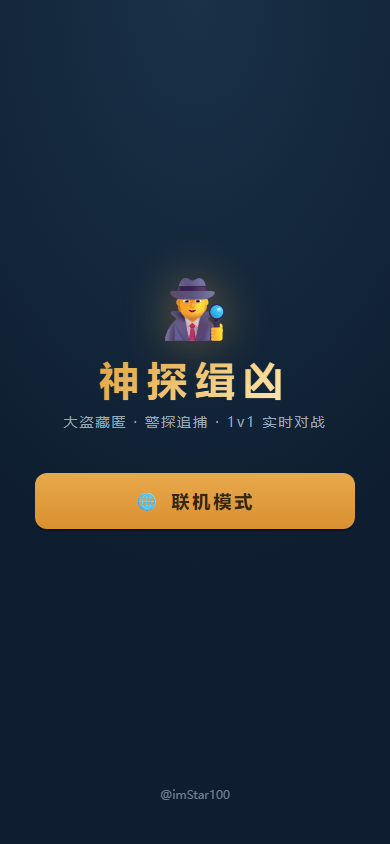
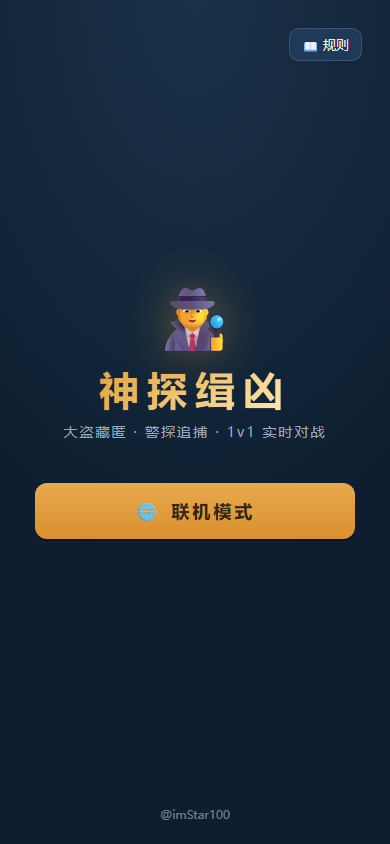
feat(神探缉凶联机模式样式+入口)

diff --git a/fugitive/style.css b/fugitive/style.css
@@ -23,7 +23,7 @@
   --radius:12px; --btn-h:56px;
 }
 * { margin:0; padding:0; box-sizing:border-box; -webkit-tap-highlight-color:transparent; }
-body { font-family:-apple-system,system-ui,"PingFang SC","Microsoft YaHei",sans-serif; background:radial-gradient(120% 90% at 50% 0%, var(--bg) 0%, var(--bg-2) 75%); background-attachment:fixed; color:var(--text); min-height:100dvh; padding-bottom:max(8px, env(safe-area-inset-bottom)); }
+body { font-family:-apple-system,system-ui,"PingFang SC","Microsoft YaHei",sans-serif; background:radial-gradient(120% 90% at 50% 0%, var(--bg) 0%, var(--bg-2) 75%); background-attachment:fixed; color:var(--text); min-height:100vh; min-height:100dvh; padding-bottom:8px; padding-bottom:max(8px, env(safe-area-inset-bottom)); }
 #app { max-width:520px; margin:0 auto; padding:12px 12px 0; }
 
 /* ===== 通用 ===== */
@@ -42,20 +42,23 @@ body { font-family:-apple-system,system-ui,"PingFang SC","Microsoft YaHei",sans-
 .badge { display:inline-block; padding:3px 10px; border-radius:999px; font-size:12px; font-weight:700; }
 
 /* ===== 登录页（居中布局，参考无赖勇者/月面探险） ===== */
-#landing { display:flex; flex-direction:column; align-items:center; justify-content:center; min-height:calc(100dvh - 30px); padding:40px 20px 30px; text-align:center; position:relative; }
+#landing { display:flex; flex-direction:column; align-items:center; justify-content:center; min-height:calc(100vh - 20px); min-height:calc(100dvh - 20px); padding:40px 20px 30px; text-align:center; position:relative; }
 #landing .hero-icon { font-size:52px; margin-bottom:10px; filter:drop-shadow(0 0 16px rgba(224,163,62,.35)); }
 #landing h1 { font-size:34px; letter-spacing:6px; margin-bottom:8px; color:var(--gold); text-shadow:0 2px 0 rgba(0,0,0,.5); }
 #landing .sub { color:var(--text-dim); font-size:14px; letter-spacing:3px; margin-bottom:18px; }
 #landing .badge { background:var(--surface); color:#ffe6b0; margin-bottom:32px; font-size:13px; padding:6px 16px; }
-.role-btn { display:flex; flex-direction:row; align-items:center; gap:14px; width:min(320px,86vw); height:auto; min-height:68px; padding:10px 18px; margin-bottom:12px; text-align:left; }
+.role-btn { display:flex; flex-direction:row; align-items:center; gap:14px; width:100%; max-width:320px; width:min(320px,86vw); height:auto; min-height:68px; padding:10px 18px; margin-bottom:12px; text-align:left; }
 .role-btn .em { font-size:28px; flex-shrink:0; }
 .role-btn .rt { display:flex; flex-direction:column; gap:2px; line-height:1.35; }
 .role-btn .rt b { font-size:16px; }
 .role-btn .de { font-size:12px; color:var(--text-dim); font-weight:400; }
 .btn-blue .de { color:#cfe6f5; }
-#landing .rules-corner { position:absolute; top:max(16px, env(safe-area-inset-top)); right:16px; }
-#landing .rules-corner button { background:var(--surface); border:1px solid rgba(255,255,255,.14); border-radius:10px; padding:7px 12px; font-size:13px; cursor:pointer; color:var(--text); }
-#landing .rules-corner button:active { background:#27405f; }
+#landing .rules-corner, .ol-landing .rules-corner { position:absolute; right:16px; }
+#landing .rules-corner { top:16px; top:max(16px, env(safe-area-inset-top)); }
+/* #online 不像 #app 有 12px 内边距，补足后按钮与人机首页同处视口 28px 角 */
+.ol-landing .rules-corner { right:28px; top:28px; top:calc(12px + max(16px, env(safe-area-inset-top))); }
+#landing .rules-corner button, .ol-landing .rules-corner button { background:var(--surface); border:1px solid rgba(255,255,255,.14); border-radius:10px; padding:7px 12px; font-size:13px; cursor:pointer; color:var(--text); }
+#landing .rules-corner button:active, .ol-landing .rules-corner button:active { background:#27405f; }
 .credit { position:absolute; bottom:14px; left:0; right:0; color:var(--text-dim); font-size:12px; opacity:.7; }
 
 /* ===== 顶栏（两行：标题行 / 角色+牌堆行） ===== */
@@ -138,7 +141,7 @@ body { font-family:-apple-system,system-ui,"PingFang SC","Microsoft YaHei",sans-
 .rh-empty { text-align:center; color:var(--text-dim); font-size:13px; padding:14px 0; }
 
 /* ===== 气泡对话 ===== */
-#bubble-layer { position:fixed; left:50%; transform:translateX(-50%); width:min(100%,520px); top:170px; z-index:90; display:flex; flex-direction:column; gap:8px; padding:0 16px; pointer-events:none; }
+#bubble-layer { position:fixed; left:50%; transform:translateX(-50%); width:100%; max-width:520px; width:min(100%,520px); top:170px; z-index:90; display:flex; flex-direction:column; gap:8px; padding:0 16px; pointer-events:none; }
 .bubble { max-width:78%; padding:10px 14px; border-radius:16px; font-size:15px; font-weight:600; line-height:1.4; box-shadow:0 4px 16px rgba(0,0,0,.5); animation:popIn .22s ease; }
 .bubble-mar { background:linear-gradient(180deg, #245a80, #1d4a6b); color:#cfe6f5; border:1px solid #2f6f9e; }
 .bubble-fug { background:linear-gradient(180deg, #8a5c1e, #6e4715); color:#ffe6b8; border:1px solid #a5762c; }
@@ -171,9 +174,9 @@ body { font-family:-apple-system,system-ui,"PingFang SC","Microsoft YaHei",sans-
 .g-cell.sel { background:var(--accent-hi); color:#33270f; transform:scale(1.08); }
 
 /* ===== 模态框 ===== */
-.modal-overlay { position:fixed; inset:0; background:rgba(8,14,24,.78); z-index:100; display:flex; align-items:flex-end; justify-content:center; opacity:0; pointer-events:none; transition:opacity .2s; }
+.modal-overlay { position:fixed; top:0; left:0; right:0; bottom:0; inset:0; background:rgba(8,14,24,.78); z-index:100; display:flex; align-items:flex-end; justify-content:center; opacity:0; pointer-events:none; transition:opacity .2s; }
 .modal-overlay.show { opacity:1; pointer-events:auto; }
-.modal { background:linear-gradient(180deg, var(--surface), var(--surface-2)); border-radius:20px 20px 0 0; width:100%; max-width:520px; max-height:80dvh; overflow-y:auto; padding:24px 20px; padding-bottom:max(24px, env(safe-area-inset-bottom)); transform:translateY(100%); transition:transform .25s ease-out; }
+.modal { background:linear-gradient(180deg, var(--surface), var(--surface-2)); border-radius:20px 20px 0 0; width:100%; max-width:520px; max-height:80vh; max-height:80dvh; overflow-y:auto; padding:24px 20px; padding-bottom:24px; padding-bottom:max(24px, env(safe-area-inset-bottom)); transform:translateY(100%); transition:transform .25s ease-out; }
 .modal-overlay.show .modal { transform:translateY(0); }
 .modal h3 { margin-bottom:12px; color:var(--gold); text-align:center; }
 .modal p, .modal li { font-size:13px; line-height:1.7; color:var(--text-dim); margin-bottom:6px; }
@@ -209,13 +212,13 @@ body { font-family:-apple-system,system-ui,"PingFang SC","Microsoft YaHei",sans-
 .flash-hit { animation:flash .6s ease; }
 
 /* ===== 搜捕开场「缉凶时刻」戏剧提示（打出 42 → 进入搜捕；全屏自动展示后自动移除） ===== */
-#manhunt-drama { position:fixed; inset:0; z-index:140; display:flex; align-items:center; justify-content:center; opacity:0; pointer-events:none; transition:opacity .26s ease; background:radial-gradient(92% 72% at 50% 38%, rgba(38,73,110,.38) 0%, rgba(5,10,18,.92) 80%); }
+#manhunt-drama { position:fixed; top:0; left:0; right:0; bottom:0; inset:0; z-index:140; display:flex; align-items:center; justify-content:center; opacity:0; pointer-events:none; transition:opacity .26s ease; background:radial-gradient(92% 72% at 50% 38%, rgba(38,73,110,.38) 0%, rgba(5,10,18,.92) 80%); }
 #manhunt-drama.on { opacity:1; pointer-events:auto; }
-#manhunt-drama .d-flash { position:absolute; inset:0; opacity:0; pointer-events:none; background:radial-gradient(62% 48% at 50% 44%, rgba(255,243,210,.95) 0%, rgba(226,85,90,.4) 55%, rgba(226,85,90,0) 100%); }
+#manhunt-drama .d-flash { position:absolute; top:0; left:0; right:0; bottom:0; inset:0; opacity:0; pointer-events:none; background:radial-gradient(62% 48% at 50% 44%, rgba(255,243,210,.95) 0%, rgba(226,85,90,.4) 55%, rgba(226,85,90,0) 100%); }
 #manhunt-drama.on .d-f1 { animation:strikeFlash .34s ease-out .05s both; }
 #manhunt-drama.on .d-f2 { animation:strikeFlash .3s ease-out .56s both; }
 @keyframes strikeFlash { 0%{opacity:0} 25%{opacity:.9} 100%{opacity:0} }
-#manhunt-drama .d-heart { position:absolute; inset:0; opacity:0; pointer-events:none; background:radial-gradient(120% 90% at 50% 50%, rgba(226,85,90,0) 55%, rgba(226,85,90,.42) 100%); }
+#manhunt-drama .d-heart { position:absolute; top:0; left:0; right:0; bottom:0; inset:0; opacity:0; pointer-events:none; background:radial-gradient(120% 90% at 50% 50%, rgba(226,85,90,0) 55%, rgba(226,85,90,.42) 100%); }
 #manhunt-drama.on .d-heart { animation:heartBeat 1.5s ease-in-out .35s infinite; }
 @keyframes heartBeat { 0%,100%{opacity:.18} 28%{opacity:.9} 46%{opacity:.25} 66%{opacity:.55} }
 #manhunt-drama .d-shake { display:flex; align-items:center; justify-content:center; width:100%; }
@@ -252,7 +255,7 @@ body { font-family:-apple-system,system-ui,"PingFang SC","Microsoft YaHei",sans-
 #manhunt-drama.calm .d-shake, #manhunt-drama.calm .d-pop, #manhunt-drama.calm .d-kicker, #manhunt-drama.calm .d-42wrap, #manhunt-drama.calm .d-stamp, #manhunt-drama.calm .d-sub, #manhunt-drama.calm .d-chip { animation:none !important; opacity:1 !important; transform:none !important; }
 
 /* ===== 警探摸牌展示：在所点牌堆按钮下方弹出摸到的牌（数字可见，驻留 0.5s + 0.2s 淡出移除，不拦截点击） ===== */
-#draw-pop { position:fixed; inset:0; z-index:130; opacity:0; pointer-events:none; transition:opacity .18s ease; }
+#draw-pop { position:fixed; top:0; left:0; right:0; bottom:0; inset:0; z-index:130; opacity:0; pointer-events:none; transition:opacity .18s ease; }
 #draw-pop.on { opacity:1; }
 #draw-pop .dp-anchor { position:absolute; transform:translateX(-50%); }
 #draw-pop .dp-inner { display:flex; flex-direction:column; align-items:center; gap:6px; }
@@ -268,7 +271,7 @@ body { font-family:-apple-system,system-ui,"PingFang SC","Microsoft YaHei",sans-
 #online .ol-logo { font-size:48px; margin:4px 0 10px; filter:drop-shadow(0 0 18px rgba(224,163,62,.4)); }
 #online .ol-title { font-size:26px; letter-spacing:5px; color:var(--gold); text-align:center; text-shadow:0 2px 0 rgba(0,0,0,.5); margin-bottom:8px; }
 #online .ol-sub { color:var(--text-dim); font-size:13px; text-align:center; margin-bottom:20px; letter-spacing:1px; }
-.ol-card { width:min(400px,100%); background:linear-gradient(180deg, var(--surface), var(--surface-2)); border:1px solid var(--line); border-radius:16px; padding:18px 16px; margin-bottom:14px; }
+.ol-card { width:100%; max-width:400px; width:min(400px,100%); background:linear-gradient(180deg, var(--surface), var(--surface-2)); border:1px solid var(--line); border-radius:16px; padding:18px 16px; margin-bottom:14px; }
 .ol-label { font-size:12px; color:var(--text-dim); font-weight:700; margin:2px 0 8px; }
 .ol-input { width:100%; padding:12px; border-radius:10px; border:1px solid #33506e; background:#0f2233; color:var(--text); font-size:16px; outline:none; margin-bottom:10px; }
 .ol-input:focus { border-color:var(--gold); }
@@ -293,11 +296,11 @@ body { font-family:-apple-system,system-ui,"PingFang SC","Microsoft YaHei",sans-
 #ol-modal-nick .ol-input { background:#0c1c2c; }
 
 /* 首页（联机入口：点击【联机模式】进入连接大厅） */
-.ol-landing { position:relative; width:100%; min-height:calc(100dvh - 30px); display:flex; flex-direction:column; align-items:center; justify-content:center; text-align:center; padding:32px 20px 42px; }
+.ol-landing { position:relative; width:100%; min-height:calc(100vh - 10px); min-height:calc(100dvh - 10px); display:flex; flex-direction:column; align-items:center; justify-content:center; text-align:center; padding:32px 20px 42px; }
 .ol-landing-icon { font-size:64px; line-height:1; margin-bottom:14px; filter:drop-shadow(0 0 24px rgba(224,163,62,.45)); }
 .ol-landing-title { font-size:40px; letter-spacing:8px; margin-bottom:8px; background:linear-gradient(135deg, var(--gold), #ffe9b0); -webkit-background-clip:text; background-clip:text; -webkit-text-fill-color:transparent; color:var(--gold); }
 .ol-landing-sub { color:var(--text-dim); font-size:14px; letter-spacing:2px; margin-bottom:42px; }
-.ol-landing-btn { width:min(320px,84vw); height:auto; padding:15px 0; font-size:18px; font-weight:800; letter-spacing:3px; }
+.ol-landing-btn { width:100%; max-width:320px; width:min(320px,84vw); height:auto; padding:15px 0; font-size:18px; font-weight:800; letter-spacing:3px; }
 .ol-landing .ol-link { margin-top:18px; }
 .ol-credit { position:absolute; bottom:12px; left:0; right:0; color:var(--text-dim); font-size:12px; opacity:.7; }
 
@@ -305,7 +308,7 @@ body { font-family:-apple-system,system-ui,"PingFang SC","Microsoft YaHei",sans-
 .ol-room { width:100%; max-width:480px; margin:0 auto; padding:26px 24px 32px; }
 .ol-room-top { display:flex; align-items:center; justify-content:space-between; margin-bottom:6px; }
 .ol-room-top .ol-title { margin:0; font-size:20px; letter-spacing:4px; }
-.ol-code { width:min(400px,100%); text-align:center; font-size:42px; font-weight:900; letter-spacing:14px; padding-left:14px; color:var(--gold); text-shadow:0 3px 0 rgba(0,0,0,.45); margin:6px 0 2px; }
+.ol-code { width:100%; max-width:400px; width:min(400px,100%); text-align:center; font-size:42px; font-weight:900; letter-spacing:14px; padding-left:14px; color:var(--gold); text-shadow:0 3px 0 rgba(0,0,0,.45); margin:6px 0 2px; }
 .ol-seat { display:flex; align-items:center; gap:10px; background:rgba(10,20,34,.45); border:1px solid var(--line); border-radius:12px; padding:12px 14px; margin-bottom:8px; }
 .ol-seat.host .os-dot { background:var(--accent); box-shadow:0 0 8px rgba(224,163,62,.6); }
 .ol-seat:not(.host) .os-dot { background:var(--mar); box-shadow:0 0 8px rgba(47,156,200,.55); }
@@ -329,11 +332,11 @@ body { font-family:-apple-system,system-ui,"PingFang SC","Microsoft YaHei",sans-
 .ol-wait-note { text-align:center; color:var(--text-dim); font-size:13px; padding:10px 0 4px; }
 
 /* 忙碌遮罩 & 网络轻提示 */
-.ol-busy { position:fixed; inset:0; z-index:300; display:none; align-items:center; justify-content:center; flex-direction:column; background:rgba(6,11,20,.72); }
+.ol-busy { position:fixed; top:0; left:0; right:0; bottom:0; inset:0; z-index:300; display:none; align-items:center; justify-content:center; flex-direction:column; background:rgba(6,11,20,.72); }
 .ob-spin { width:36px; height:36px; border:3px solid rgba(255,255,255,.18); border-top-color:var(--gold); border-radius:50%; animation:olbusy-spin .7s linear infinite; }
 @keyframes olbusy-spin { to { transform:rotate(360deg); } }
 .ob-text { margin-top:14px; color:var(--text); font-size:14px; }
-.ol-net-toast { position:fixed; top:max(18px, env(safe-area-inset-top)); left:50%; transform:translateX(-50%) translateY(-6px); z-index:310; background:rgba(10,22,36,.96); border:1px solid var(--gold); color:var(--text); font-size:13px; padding:9px 18px; border-radius:999px; opacity:0; pointer-events:none; animation:oltoast-in .25s ease-out forwards; box-shadow:0 6px 18px rgba(0,0,0,.5); }
+.ol-net-toast { position:fixed; top:18px; top:max(18px, env(safe-area-inset-top)); left:50%; transform:translateX(-50%) translateY(-6px); z-index:310; background:rgba(10,22,36,.96); border:1px solid var(--gold); color:var(--text); font-size:13px; padding:9px 18px; border-radius:999px; opacity:0; pointer-events:none; animation:oltoast-in .25s ease-out forwards; box-shadow:0 6px 18px rgba(0,0,0,.5); }
 .ol-net-toast.hide { animation:oltoast-out .3s ease-in forwards; }
 @keyframes oltoast-in { from { opacity:0; transform:translateX(-50%) translateY(-14px); } to { opacity:1; transform:translateX(-50%) translateY(0); } }
 @keyframes oltoast-out { from { opacity:1; } to { opacity:0; } }

diff --git a/fugitive/test-ol.js b/fugitive/test-ol.js
@@ -133,8 +133,9 @@ async function pickSafeMiss(page){
     await host.goto(URL);
     await host.waitForSelector('#ol-enter-online', { timeout: 20000 });
     assert(await host.isVisible('.ol-landing-title'), '首页标题缺失');
-    const landingBtns = await host.$$eval('#online button', els => els.map(e => e.textContent.trim()));
-    assert(landingBtns.length === 1 && landingBtns[0].indexOf('联机模式') >= 0, '首页应只有 1 个【联机模式】按钮: ' + landingBtns);
+    const landingBtns = await host.$$eval('#online button', els => els.map(e => e.textContent.trim()).filter(t => t.indexOf('联机模式') >= 0));
+    assert(landingBtns.length === 1, '首页应只有 1 个【联机模式】按钮: ' + landingBtns);
+    assert(await host.isVisible('.ol-landing .rules-corner button'), '首页右上角规则按钮缺失');
     await shot(host, '1-landing');
     await host.click('#ol-enter-online');
     await host.waitForSelector('#ol-code', { timeout: 20000 });

diff --git a/fugitive/index_ol.html b/fugitive/index_ol.html
@@ -15,7 +15,7 @@
 <div id="online" style="display:none"></div>
 
 <!-- 初始化加载遮罩 -->
-<div id="ol-init-loading" style="position:fixed;inset:0;z-index:99999;display:flex;align-items:center;justify-content:center;background:rgba(8,14,24,.9);">
+<div id="ol-init-loading" style="position:fixed;top:0;left:0;right:0;bottom:0;inset:0;z-index:99999;display:flex;align-items:center;justify-content:center;background:rgba(8,14,24,.9);">
   <div style="text-align:center;color:var(--text);font-size:1rem;">
     <div style="width:34px;height:34px;border:3px solid rgba(255,255,255,.2);border-top-color:var(--gold);border-radius:50%;animation:olspin .7s linear infinite;margin:0 auto 14px;"></div>
     载入中…

diff --git a/index.html b/index.html
@@ -169,6 +169,11 @@ body { font-family:-apple-system,system-ui,sans-serif; background:var(--bg); col
         <span class="online-name">时序谜局OL</span>
         <span class="online-desc">2~4人 合作默契配合</span>
       </div>
+      <div class="online-item" onclick="location.href='fugitive/index_ol.html'">
+        <span class="online-icon">🕵</span>
+        <span class="online-name">神探缉凶OL</span>
+        <span class="online-desc">2人 1v1对战推理</span>
+      </div>
     </div>
   </div>
 

diff --git a/fugitive/online.js b/fugitive/online.js
@@ -138,6 +138,7 @@ function showOnlineLanding(){
 function renderOnlineLanding(){
   document.getElementById('online').innerHTML =
     '<div class="ol-landing">' +
+      '<div class="rules-corner"><button onclick="showModal(\'rules\')">📖 规则</button></div>' +
       '<div class="ol-landing-icon">🕵</div>' +
       '<h1 class="ol-landing-title">神探缉凶</h1>' +
       '<div class="ol-landing-sub">大盗藏匿 · 警探追捕 · 1v1 实时对战</div>' +
